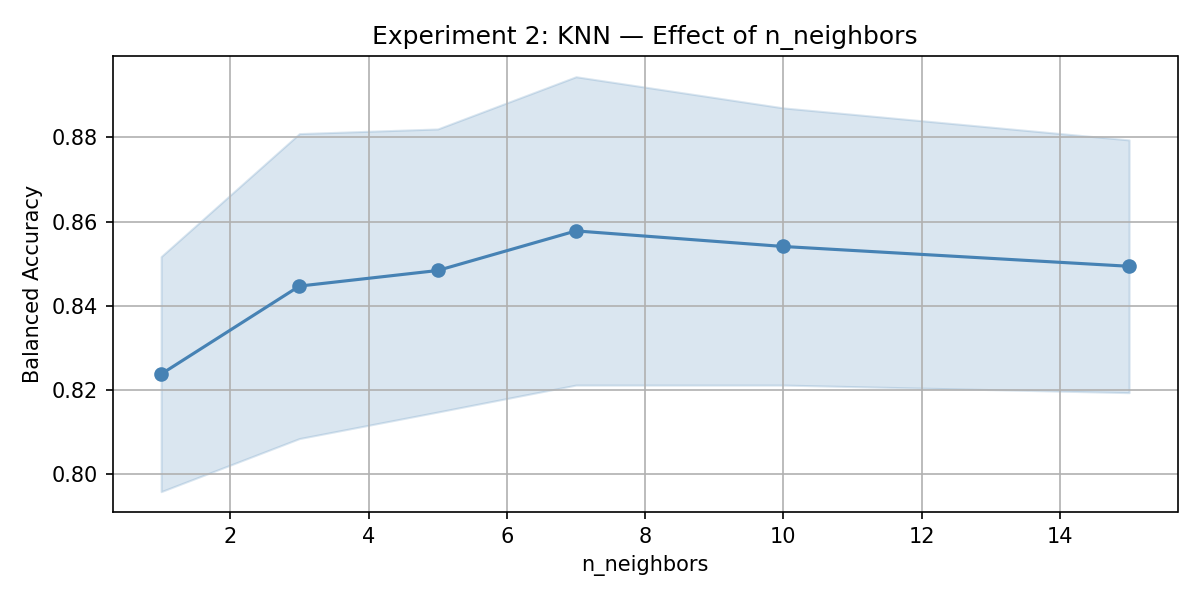
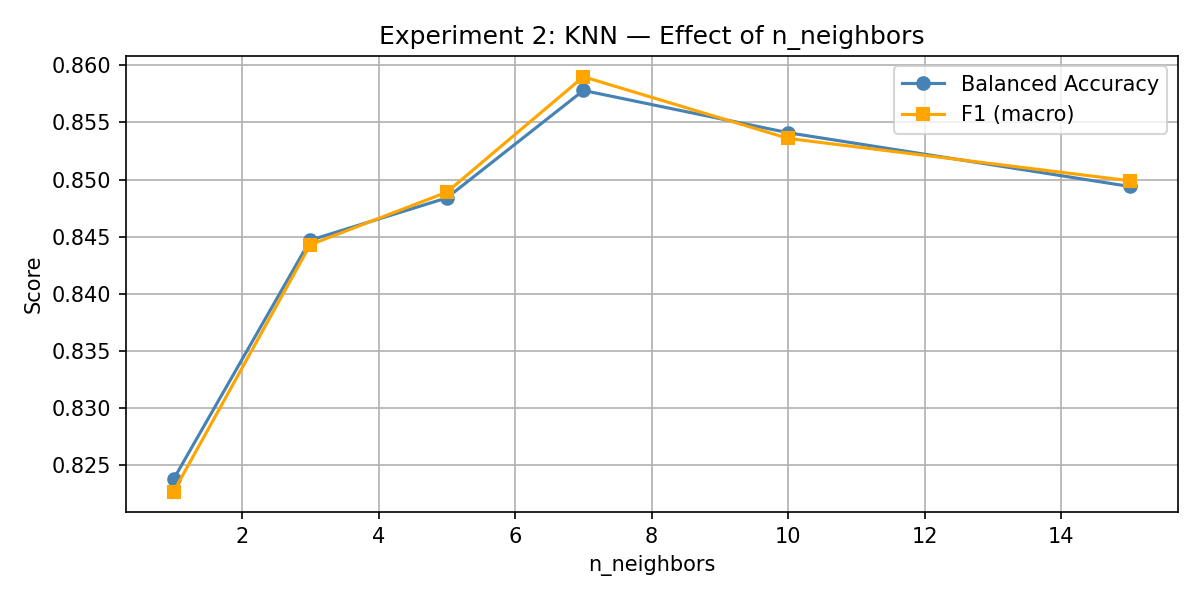
Add changes

diff --git a/src/experiment2.py b/src/experiment2.py
@@ -1,8 +1,9 @@
 import pandas as pd
 import matplotlib.pyplot as plt
-from sklearn.model_selection import RepeatedStratifiedKFold, cross_validate
+from sklearn.model_selection import RepeatedStratifiedKFold, cross_validate, train_test_split
 from sklearn.neighbors import KNeighborsClassifier
 from sklearn.ensemble import RandomForestClassifier
+from sklearn.metrics import confusion_matrix
 
 
 def run_experiment2(X, y):
@@ -29,36 +30,49 @@ def _test_knn(X, y, cv):
 
     for n in neighbors_to_test:
         model = KNeighborsClassifier(n_neighbors=n)
-        scores = cross_validate(model, X, y, cv=cv, scoring="balanced_accuracy")
-        ba = scores["test_score"]
+        scores = cross_validate(
+            model, X, y, cv=cv,
+            scoring=["balanced_accuracy", "f1_macro"]
+        )
+        ba = scores["test_balanced_accuracy"]
+        f1 = scores["test_f1_macro"]
 
         results.append({
             "n_neighbors":       n,
             "Balanced Accuracy": round(ba.mean(), 4),
-            "std":               round(ba.std(), 4),
+            "BA std":            round(ba.std(), 4),
+            "F1 (macro)":        round(f1.mean(), 4),
+            "F1 std":            round(f1.std(), 4),
         })
-        print(f"  n_neighbors={n}: BA = {ba.mean():.4f} (±{ba.std():.4f})")
+        print(f"  n_neighbors={n}: BA = {ba.mean():.4f}, F1 = {f1.mean():.4f}")
 
     df = pd.DataFrame(results)
     df.to_csv("results/exp2_knn.csv", index=False)
 
-    # Line plot
+    # Line plot: Balanced Accuracy and F1 vs n_neighbors
     fig, ax = plt.subplots(figsize=(8, 4))
-    ax.plot(df["n_neighbors"], df["Balanced Accuracy"], marker="o", color="steelblue")
-    ax.fill_between(
-        df["n_neighbors"],
-        df["Balanced Accuracy"] - df["std"],
-        df["Balanced Accuracy"] + df["std"],
-        alpha=0.2, color="steelblue"
-    )
+    ax.plot(df["n_neighbors"], df["Balanced Accuracy"], marker="o", label="Balanced Accuracy", color="steelblue")
+    ax.plot(df["n_neighbors"], df["F1 (macro)"], marker="s", label="F1 (macro)", color="orange")
     ax.set_xlabel("n_neighbors")
-    ax.set_ylabel("Balanced Accuracy")
+    ax.set_ylabel("Score")
     ax.set_title("Experiment 2: KNN — Effect of n_neighbors")
+    ax.legend()
     ax.grid(True)
     plt.tight_layout()
     plt.savefig("results/exp2_knn.png", dpi=150)
     plt.close()
     print("Chart saved → results/exp2_knn.png")
+
+    # Confusion matrix for the best n_neighbors value found
+    best_n = df.sort_values("Balanced Accuracy", ascending=False).iloc[0]["n_neighbors"]
+    best_n = int(best_n)
+    print(f"  Best n_neighbors = {best_n} → drawing its confusion matrix")
+    best_model = KNeighborsClassifier(n_neighbors=best_n)
+    _plot_single_confusion_matrix(
+        X, y, best_model,
+        title=f"KNN (n_neighbors={best_n})",
+        filename="exp2_knn_confusion.png"
+    )
 
 
 def _test_random_forest(X, y, cv):
@@ -73,34 +87,76 @@ def _test_random_forest(X, y, cv):
             class_weight="balanced",
             random_state=42
         )
-        scores = cross_validate(model, X, y, cv=cv, scoring="balanced_accuracy")
-        ba = scores["test_score"]
+        scores = cross_validate(
+            model, X, y, cv=cv,
+            scoring=["balanced_accuracy", "f1_macro"]
+        )
+        ba = scores["test_balanced_accuracy"]
+        f1 = scores["test_f1_macro"]
 
         results.append({
             "n_estimators":      n,
             "Balanced Accuracy": round(ba.mean(), 4),
-            "std":               round(ba.std(), 4),
+            "BA std":            round(ba.std(), 4),
+            "F1 (macro)":        round(f1.mean(), 4),
+            "F1 std":            round(f1.std(), 4),
         })
-        print(f"  n_estimators={n}: BA = {ba.mean():.4f} (±{ba.std():.4f})")
+        print(f"  n_estimators={n}: BA = {ba.mean():.4f}, F1 = {f1.mean():.4f}")
 
     df = pd.DataFrame(results)
     df.to_csv("results/exp2_random_forest.csv", index=False)
 
-    # Line plot
+    # Line plot: Balanced Accuracy and F1 vs n_estimators
     fig, ax = plt.subplots(figsize=(8, 4))
-    ax.plot(df["n_estimators"], df["Balanced Accuracy"], marker="o", color="green")
-    ax.fill_between(
-        df["n_estimators"],
-        df["Balanced Accuracy"] - df["std"],
-        df["Balanced Accuracy"] + df["std"],
-        alpha=0.2, color="green"
-    )
+    ax.plot(df["n_estimators"], df["Balanced Accuracy"], marker="o", label="Balanced Accuracy", color="green")
+    ax.plot(df["n_estimators"], df["F1 (macro)"], marker="s", label="F1 (macro)", color="orange")
     ax.set_xlabel("n_estimators (number of trees)")
-    ax.set_ylabel("Balanced Accuracy")
+    ax.set_ylabel("Score")
     ax.set_title("Experiment 2: Random Forest — Effect of n_estimators")
+    ax.legend()
     ax.grid(True)
     plt.tight_layout()
     plt.savefig("results/exp2_random_forest.png", dpi=150)
     plt.close()
     print("Chart saved → results/exp2_random_forest.png")
 
+    # Confusion matrix for the best n_estimators value found
+    best_n = df.sort_values("Balanced Accuracy", ascending=False).iloc[0]["n_estimators"]
+    best_n = int(best_n)
+    print(f"  Best n_estimators = {best_n} → drawing its confusion matrix")
+    best_model = RandomForestClassifier(n_estimators=best_n, class_weight="balanced", random_state=42)
+    _plot_single_confusion_matrix(
+        X, y, best_model,
+        title=f"Random Forest (n_estimators={best_n})",
+        filename="exp2_random_forest_confusion.png"
+    )
+
+
+def _plot_single_confusion_matrix(X, y, model, title, filename):
+    # One simple 80/20 split, just for this picture
+    X_train, X_test, y_train, y_test = train_test_split(
+        X, y, test_size=0.2, random_state=42, stratify=y
+    )
+
+    model.fit(X_train, y_train)
+    y_pred = model.predict(X_test)
+    cm = confusion_matrix(y_test, y_pred)
+
+    fig, ax = plt.subplots(figsize=(5, 4))
+    ax.imshow(cm, cmap="Blues")
+    ax.set_title(title, fontsize=11)
+    ax.set_xlabel("Predicted")
+    ax.set_ylabel("True")
+    ax.set_xticks([0, 1])
+    ax.set_yticks([0, 1])
+    ax.set_xticklabels(["Healthy", "Disease"])
+    ax.set_yticklabels(["Healthy", "Disease"])
+
+    for row in range(2):
+        for col in range(2):
+            ax.text(col, row, cm[row, col], ha="center", va="center")
+
+    plt.tight_layout()
+    plt.savefig(f"results/{filename}", dpi=150)
+    plt.close()
+    print(f"  Confusion matrix saved → results/{filename}")

diff --git a/src/experiment3.py b/src/experiment3.py
@@ -1,6 +1,7 @@
 import pandas as pd
 import matplotlib.pyplot as plt
 from sklearn.model_selection import RepeatedStratifiedKFold, cross_validate, train_test_split
+from sklearn.metrics import confusion_matrix
 
 
 def run_experiment3(X, y, models):
@@ -14,8 +15,10 @@ def run_experiment3(X, y, models):
     # Same cross-validation as in Experiment 1
     cv = RepeatedStratifiedKFold(n_splits=5, n_repeats=2, random_state=42)
 
-    # results[model_name] = list of BA scores, one per subset size
-    results = {name: [] for name in models}
+    # results_ba[model_name]  = list of Balanced Accuracy scores, one per subset size
+    # results_f1[model_name]  = list of F1 (macro) scores, one per subset size
+    results_ba = {name: [] for name in models}
+    results_f1 = {name: [] for name in models}
 
     for size in subset_sizes:
         percent = int(size * 100)
@@ -37,28 +40,43 @@ def run_experiment3(X, y, models):
             scores = cross_validate(
                 model, X_sub, y_sub,
                 cv=cv,
-                scoring="balanced_accuracy"
+                scoring=["balanced_accuracy", "f1_macro"]
             )
-            ba = scores["test_score"].mean()
-            results[name].append(round(ba, 4))
-            print(f"  {name}: BA = {ba:.4f}")
+            ba = scores["test_balanced_accuracy"].mean()
+            f1 = scores["test_f1_macro"].mean()
 
-    # Save results table
+            results_ba[name].append(round(ba, 4))
+            results_f1[name].append(round(f1, 4))
+            print(f"  {name}: BA = {ba:.4f}, F1 = {f1:.4f}")
+
+    # Save results tables
     size_labels = [f"{int(s*100)}%" for s in subset_sizes]
-    df = pd.DataFrame(results, index=size_labels)
-    df.index.name = "Subset size"
-    df.to_csv("results/exp3_results.csv")
-    print("\nResults saved → results/exp3_results.csv")
-    print(df.to_string())
 
-    # Plot learning curves
-    _plot_learning_curves(results, size_labels)
+    df_ba = pd.DataFrame(results_ba, index=size_labels)
+    df_ba.index.name = "Subset size"
+    df_ba.to_csv("results/exp3_results_balanced_accuracy.csv")
+
+    df_f1 = pd.DataFrame(results_f1, index=size_labels)
+    df_f1.index.name = "Subset size"
+    df_f1.to_csv("results/exp3_results_f1.csv")
+
+    print("\nBalanced Accuracy results:")
+    print(df_ba.to_string())
+    print("\nF1 (macro) results:")
+    print(df_f1.to_string())
+    print("\nResults saved → results/exp3_results_balanced_accuracy.csv, results/exp3_results_f1.csv")
+
+    # Plot learning curves (Balanced Accuracy vs subset size)
+    _plot_learning_curves(results_ba, size_labels)
+
+    # Confusion matrices on the full (100%) dataset — one grid for all models
+    _plot_confusion_matrices_full(X, y, models)
 
 
-def _plot_learning_curves(results, size_labels):
+def _plot_learning_curves(results_ba, size_labels):
     fig, ax = plt.subplots(figsize=(10, 6))
 
-    for name, scores in results.items():
+    for name, scores in results_ba.items():
         ax.plot(size_labels, scores, marker="o", label=name)
 
     ax.set_xlabel("Training data size")
@@ -71,3 +89,42 @@ def _plot_learning_curves(results, size_labels):
     plt.savefig("results/exp3_learning_curves.png", dpi=150)
     plt.close()
     print("Learning curves saved → results/exp3_learning_curves.png")
+
+
+def _plot_confusion_matrices_full(X, y, models):
+    # Confusion matrices computed on the full (100%) dataset,
+    # using one simple 80/20 split just for this picture.
+    print("\nGenerating confusion matrices on full dataset (80/20 split, for the picture only)...")
+
+    X_train, X_test, y_train, y_test = train_test_split(
+        X, y, test_size=0.2, random_state=42, stratify=y
+    )
+
+    fig, axes = plt.subplots(2, 3, figsize=(15, 9))
+    axes = axes.flatten()
+
+    for i, (name, model) in enumerate(models.items()):
+        model.fit(X_train, y_train)
+        y_pred = model.predict(X_test)
+
+        cm = confusion_matrix(y_test, y_pred)
+
+        ax = axes[i]
+        ax.imshow(cm, cmap="Blues")
+        ax.set_title(name, fontsize=10)
+        ax.set_xlabel("Predicted")
+        ax.set_ylabel("True")
+        ax.set_xticks([0, 1])
+        ax.set_yticks([0, 1])
+        ax.set_xticklabels(["Healthy", "Disease"])
+        ax.set_yticklabels(["Healthy", "Disease"])
+
+        for row in range(2):
+            for col in range(2):
+                ax.text(col, row, cm[row, col], ha="center", va="center")
+
+    fig.suptitle("Experiment 3: Confusion Matrices (100% data, 80/20 split)", fontsize=14)
+    plt.tight_layout()
+    plt.savefig("results/exp3_confusion_matrices.png", dpi=150)
+    plt.close()
+    print("Confusion matrices saved → results/exp3_confusion_matrices.png")

diff --git a/src/experiment1.py b/src/experiment1.py
@@ -2,7 +2,8 @@ import os
 import numpy as np
 import pandas as pd
 import matplotlib.pyplot as plt
-from sklearn.model_selection import RepeatedStratifiedKFold, cross_validate
+from sklearn.model_selection import RepeatedStratifiedKFold, cross_validate, train_test_split
+from sklearn.metrics import confusion_matrix
 from scipy.stats import wilcoxon
 
 
@@ -15,7 +16,7 @@ def run_experiment1(X, y, models):
     # This gives more stable results than a single train/test split
     cv = RepeatedStratifiedKFold(n_splits=5, n_repeats=2, random_state=42)
 
-    all_scores = {}  # store all 10 scores per model (needed for Wilcoxon test)
+    all_scores = {}  # store all 10 Balanced Accuracy scores per model (needed for Wilcoxon test)
     summary = []
 
     for name, model in models.items():
@@ -55,6 +56,9 @@ def run_experiment1(X, y, models):
 
     # Wilcoxon test — check if differences between models are statistically significant
     _wilcoxon_test(all_scores)
+
+    # Confusion matrices — one simple 80/20 split, just for the picture
+    _plot_confusion_matrices(X, y, models, "exp1_confusion_matrices.png", "Experiment 1")
 
     return df_results, all_scores
 
@@ -115,3 +119,44 @@ def _wilcoxon_test(all_scores):
     p_table.to_csv("results/exp1_wilcoxon.csv")
     print("\np-values saved → results/exp1_wilcoxon.csv")
 
+
+def _plot_confusion_matrices(X, y, models, filename, title_prefix):
+    # Cross-validation gives many different splits, so there is no single
+    # "test set" to draw one confusion matrix from.
+    # Instead, we do one simple 80/20 split here ONLY for this picture.
+    print(f"\nGenerating confusion matrices (separate 80/20 split, for the picture only)...")
+
+    X_train, X_test, y_train, y_test = train_test_split(
+        X, y, test_size=0.2, random_state=42, stratify=y
+    )
+
+    fig, axes = plt.subplots(2, 3, figsize=(15, 9))
+    axes = axes.flatten()
+
+    for i, (name, model) in enumerate(models.items()):
+        # Train this model on the 80% split and predict on the 20% split
+        model.fit(X_train, y_train)
+        y_pred = model.predict(X_test)
+
+        cm = confusion_matrix(y_test, y_pred)
+
+        ax = axes[i]
+        ax.imshow(cm, cmap="Blues")
+        ax.set_title(name, fontsize=10)
+        ax.set_xlabel("Predicted")
+        ax.set_ylabel("True")
+        ax.set_xticks([0, 1])
+        ax.set_yticks([0, 1])
+        ax.set_xticklabels(["Healthy", "Disease"])
+        ax.set_yticklabels(["Healthy", "Disease"])
+
+        # write the numbers inside each box
+        for row in range(2):
+            for col in range(2):
+                ax.text(col, row, cm[row, col], ha="center", va="center")
+
+    fig.suptitle(f"{title_prefix}: Confusion Matrices (80/20 split)", fontsize=14)
+    plt.tight_layout()
+    plt.savefig(f"results/{filename}", dpi=150)
+    plt.close()
+    print(f"Confusion matrices saved → results/{filename}")